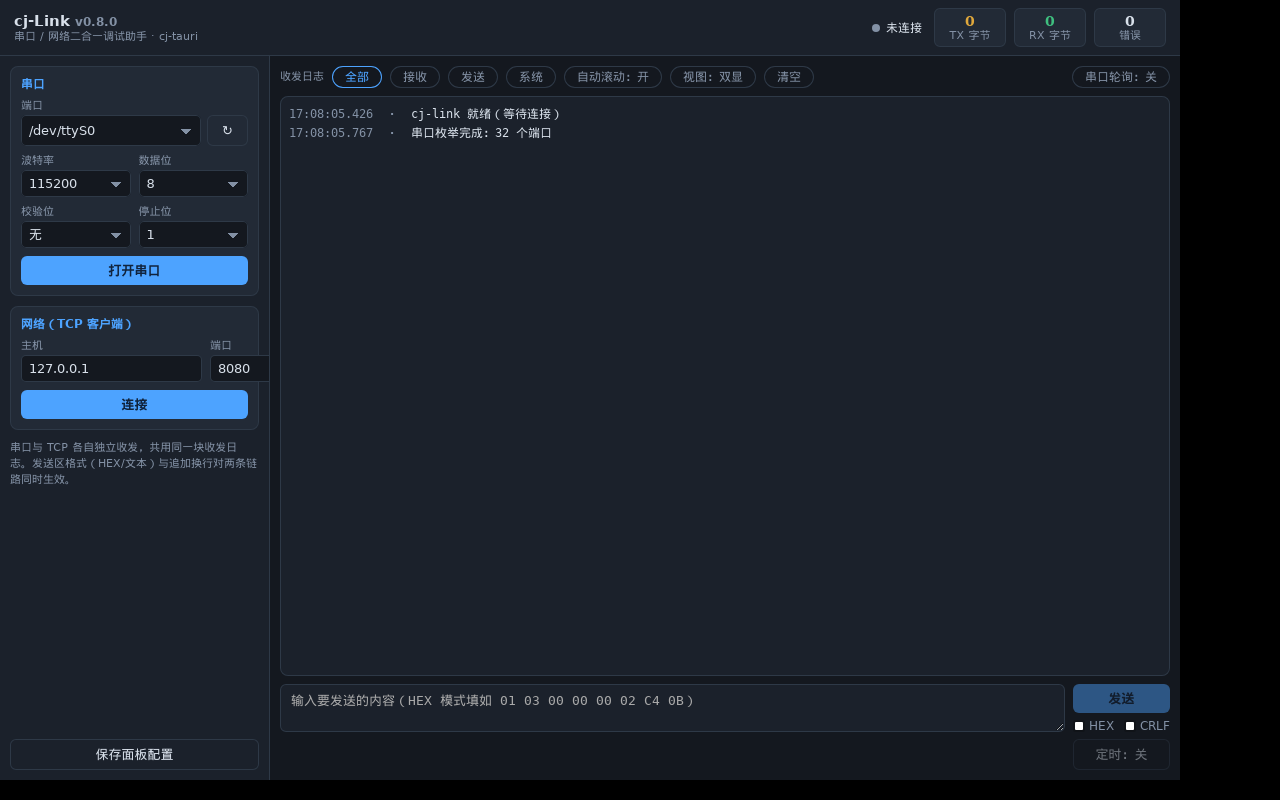
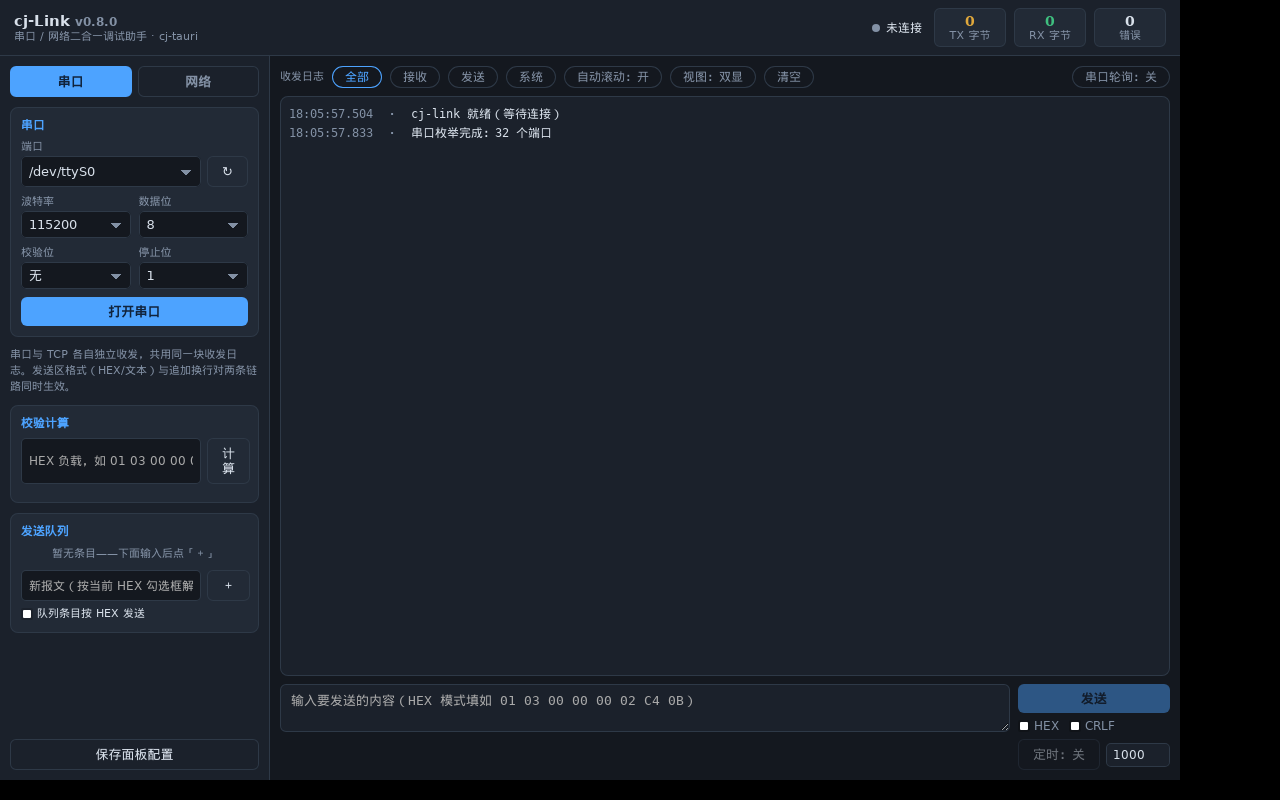
feat(cj-link): add send queue, CRC/checksum calculator and adjustable timer
- 发送队列：常用报文列表（HEX/TXT 各自标记），点条目即发，随 store 持久化
- 校验计算：link:crcCalc 命令算 CRC16-Modbus（低前/高前）/CRC16-CCITT/
  累加和/异或和/LRC，一键取「整帧+CRC」回填发送框（协议逻辑在仓颉侧）
- 定时发送周期可调（50ms–60s 输入框，原来固定 1s）
- 探针补 CRC 标准向量步骤（01 03 00 00 00 02 → c40b），run.sh 断言扩到
  33 条（实机全绿 exit=0）；capabilities 同步、构建零警告、截图更新

diff --git a/examples/cj-link/ui/index.html b/examples/cj-link/ui/index.html
@@ -74,6 +74,22 @@
   }
   button.ghost:hover { border-color: var(--accent); color: var(--accent); }
   button.danger { background: var(--err); color: #fff; }
+  .crc-out { display: flex; flex-direction: column; gap: 2px; margin-top: 8px; font-size: 11px; }
+  .crc-row { display: flex; justify-content: space-between; gap: 8px; cursor: pointer; padding: 2px 4px; border-radius: 4px; }
+  .crc-row:hover { background: var(--bg); }
+  .crc-row .k { color: var(--muted); }
+  .crc-row .v { font-family: Consolas, monospace; color: var(--accent); }
+  .queue-list { display: flex; flex-direction: column; gap: 4px; max-height: 180px; overflow-y: auto; }
+  .queue-item {
+    display: flex; align-items: center; gap: 6px; background: var(--bg);
+    border: 1px solid var(--line); border-radius: 5px; padding: 4px 8px; font-size: 12px;
+    font-family: Consolas, monospace; cursor: pointer;
+  }
+  .queue-item:hover { border-color: var(--accent); }
+  .queue-item .qhex { color: var(--warn); font-size: 10px; flex: 0 0 auto; }
+  .queue-item .qtext { flex: 1 1 auto; overflow: hidden; text-overflow: ellipsis; white-space: nowrap; }
+  .queue-item .qdel { color: var(--muted); cursor: pointer; flex: 0 0 auto; font-size: 13px; }
+  .queue-item .qdel:hover { color: var(--err); }
   .hint { font-size: 11px; color: var(--muted); line-height: 1.5; }
   .section {
     flex: 1 1 auto; display: flex; flex-direction: column; min-width: 0; padding: 10px; gap: 8px;
@@ -179,6 +195,23 @@
       <div class="hint">
         串口与 TCP 各自独立收发，共用同一块收发日志。发送区格式（HEX/文本）与追加换行对两条链路同时生效。
       </div>
+      <div class="modebox" id="crcBox">
+        <h3>校验计算</h3>
+        <div style="display:flex;gap:6px">
+          <input id="crcInput" placeholder="HEX 负载，如 01 03 00 00 00 02" style="flex:1;background:var(--bg);color:var(--fg);border:1px solid var(--line);border-radius:5px;padding:5px 7px;font-size:12px;outline:none">
+          <button class="ghost" id="bCrcCalc">计算</button>
+        </div>
+        <div id="crcOut" class="crc-out" hidden></div>
+      </div>
+      <div class="modebox" id="queueBox">
+        <h3>发送队列</h3>
+        <div id="queueList" class="queue-list"><div class="hint" style="text-align:center">暂无条目——下面输入后点「＋」</div></div>
+        <div style="display:flex;gap:6px;margin-top:8px">
+          <input id="queueInput" placeholder="新报文（按当前 HEX 勾选框解释）" style="flex:1;background:var(--bg);color:var(--fg);border:1px solid var(--line);border-radius:5px;padding:5px 7px;font-size:12px;outline:none">
+          <button class="ghost" id="bQueueAdd" title="加入队列">＋</button>
+        </div>
+        <label class="toggle" style="margin-top:6px;font-size:11px"><input type="checkbox" id="queueAutoHex">队列条目按 HEX 发送</label>
+      </div>
       <div style="margin-top:auto">
         <button class="ghost" id="bSaveCfg" style="width:100%">保存面板配置</button>
       </div>
@@ -204,7 +237,10 @@
             <label class="toggle"><input type="checkbox" id="hexMode">HEX</label>
             <label class="toggle"><input type="checkbox" id="appendCRLF">CRLF</label>
           </div>
-          <button class="ghost" id="bTimer" disabled>定时：关</button>
+          <div style="display:flex;gap:6px;align-items:center">
+            <button class="ghost" id="bTimer" disabled style="flex:1">定时：关</button>
+            <input id="timerMs" value="1000" title="定时周期（毫秒）" style="width:64px;background:var(--panel);color:var(--fg);border:1px solid var(--line);border-radius:5px;padding:4px 6px;font-size:12px;outline:none">
+          </div>
         </div>
       </div>
     </section>
@@ -475,6 +511,96 @@
     }).catch(function (e) { sysMsg('断开失败：' + errMsg(e)); });
   }
 
+  /* ============ CRC / 校验计算 ============ */
+  var CRC_LABELS = [
+    ['crc16Modbus', 'CRC16-Modbus（低前）'],
+    ['crc16ModbusBig', 'CRC16-Modbus（高前）'],
+    ['crc16Ccitt', 'CRC16-CCITT'],
+    ['sum8', '累加和'],
+    ['xor8', '异或和'],
+    ['lrc', 'LRC'],
+    ['frameWithCrc', '整帧+CRC（可发送）']
+  ];
+  function crcCalc() {
+    var v = $('crcInput').value.trim();
+    if (!v) { return; }
+    t().invoke('link:crcCalc', { data: v, encoding: 'hex', append: true }).then(function (r) {
+      var out = $('crcOut');
+      out.innerHTML = '';
+      CRC_LABELS.forEach(function (kv) {
+        var val = r[kv[0]];
+        if (val === undefined) { return; }
+        var row = document.createElement('div');
+        row.className = 'crc-row';
+        row.innerHTML = '<span class="k">' + kv[1] + '</span><span class="v">' + esc(val) + '</span>';
+        // 点整帧行回填发送框；点其它行复制值进发送框
+        row.addEventListener('click', function () {
+          $('sendInput').value = val.toUpperCase().replace(/(..)(?=.)/g, '$1 ');
+          sysMsg('已填入发送框：' + kv[1] + ' = ' + val);
+        });
+        out.appendChild(row);
+      });
+      out.hidden = false;
+    }).catch(function (e) { sysMsg('校验计算失败：' + errMsg(e)); });
+  }
+
+  /* ============ 发送队列 ============ */
+  var queue = [];   // { text, hex }——hex 为该条目入队时的解释方式（true=HEX）
+  function queueRender() {
+    var box = $('queueList');
+    box.innerHTML = '';
+    if (!queue.length) {
+      box.innerHTML = '<div class="hint" style="text-align:center">暂无条目——下面输入后点「＋」</div>';
+      return;
+    }
+    queue.forEach(function (q, idx) {
+      var el = document.createElement('div');
+      el.className = 'queue-item';
+      el.innerHTML = '<span class="qhex">' + (q.hex ? 'HEX' : 'TXT') + '</span>' +
+        '<span class="qtext">' + esc(q.text) + '</span>' +
+        '<span class="qdel" data-i="' + idx + '" title="删除">✕</span>';
+      el.addEventListener('click', function (ev) {
+        if (ev.target.classList.contains('qdel')) {
+          queue.splice(Number(ev.target.getAttribute('data-i')), 1);
+          queueRender(); queueSave();
+          return;
+        }
+        queueSend(q);
+      });
+      box.appendChild(el);
+    });
+  }
+  function queueSend(q) {
+    if (!(S.serOpen || S.tcpOpen)) { sysMsg('先打开串口或连接网络，再从队列发送'); return; }
+    var isHex = q.hex;
+    if (isHex) {
+      var cleaned = q.text.replace(/\s+/g, '');
+      if (!/^[0-9a-fA-F]+$/.test(cleaned) || cleaned.length % 2 !== 0) {
+        sysMsg('队列条目不是合法 HEX：' + q.text); return;
+      }
+    }
+    var p = { data: isHex ? cleaned : q.text, encoding: isHex ? 'hex' : 'utf8' };
+    if (S.serOpen) {
+      t().invoke('serial:write', { handle: S.serHandle, data: p.data, encoding: p.encoding })
+        .then(function (r) { addLine({ dir: 'tx', text: p.data, hex: hexOf(p), nBytes: r.written || p.data.length }); })
+        .catch(function (e) { S.errCount++; sysMsg('队列发送失败：' + errMsg(e)); });
+    } else {
+      t().invoke('link:netSend', { data: p.data, encoding: p.encoding })
+        .then(function (r) { addLine({ dir: 'tx', text: p.data, hex: hexOf(p), nBytes: r.bytes || p.data.length }); })
+        .catch(function (e) { S.errCount++; sysMsg('队列发送失败：' + errMsg(e)); });
+    }
+  }
+  function queueSave() {
+    if (!t()) { return; }
+    t().invoke('store:set', { key: 'queue', value: queue }).catch(function () {});
+  }
+  function queueLoad() {
+    if (!t()) { return; }
+    t().invoke('store:get', { key: 'queue' }).then(function (r) {
+      if (r.value && r.value.length) { queue = r.value; queueRender(); }
+    }).catch(function () {});
+  }
+
   /* ============ 配置持久化 ============ */
   var CFG_KEY = 'panel';
   function cfgObj() {
@@ -576,6 +702,13 @@
         .catch(function (e) { return null; });
     }
     serialPart.then(function () {
+      /* CRC / 校验小工具自检：Modbus 标准测试向量 01 03 00 00 00 02 → C4 0B（低前） */
+      return step('crcCalc', t().invoke('link:crcCalc', { data: '010300000002', encoding: 'hex', append: true }))
+        .then(function (r) {
+          if (r.crc16Modbus !== 'c40b') { throw new Error('CRC16-Modbus 期望 c40b，拿到 ' + r.crc16Modbus); }
+          report('[selfcheck] crc vector=010300000002 crc16Modbus=' + r.crc16Modbus + ' frame=' + r.frameWithCrc);
+        });
+    }).then(function () {
       return step('tcpConnect', t().invoke('link:netConnect', { mode: 'tcp-client', host: cfg.tcpHost || '127.0.0.1', port: parseInt(cfg.tcpPort || '15021', 10) }))
         .then(function () {
           S.tcpOpen = true;
@@ -667,18 +800,37 @@
     });
     $('bSend').addEventListener('click', doSend);
     $('bSaveCfg').addEventListener('click', saveCfg);
+    /* 发送队列：入队 / 载入 */
+    $('bQueueAdd').addEventListener('click', function () {
+      var v = $('queueInput').value;
+      if (!v) { return; }
+      queue.push({ text: v, hex: $('queueAutoHex').checked });
+      $('queueInput').value = '';
+      queueRender(); queueSave();
+    });
+    $('queueInput').addEventListener('keydown', function (ev) {
+      if (ev.key === 'Enter') { $('bQueueAdd').click(); }
+    });
+    queueLoad();
     $('bTimer').addEventListener('click', function () {
       S.timerOn = !S.timerOn;
       this.textContent = '定时：' + (S.timerOn ? '开' : '关');
-      this.classList.toggle('sel', false);
       if (S.timerOn) {
+        var period = function () {
+          var ms = parseInt($('timerMs').value, 10);
+          return (ms >= 50 && ms <= 60000) ? ms : 1000;
+        };
         var tick = function () {
           if (!S.timerOn) { return; }
           doSend();
-          setTimeout(tick, 1000);
+          setTimeout(tick, period());
         };
         tick();
       }
+    });
+    $('bCrcCalc').addEventListener('click', crcCalc);
+    $('crcInput').addEventListener('keydown', function (ev) {
+      if (ev.key === 'Enter') { crcCalc(); }
     });
     serRefresh();
     loadCfg();

diff --git a/examples/cj-link/README.md b/examples/cj-link/README.md
@@ -16,7 +16,10 @@ cj-tauri 示例：串口与 TCP 客户端共用一块收发日志的调试小工
   收均走宿主事件推送 `link:tcpData`（报文带 `mode`/`channel`/`from` 字段区分来源）。
 - **收发日志**：HEX/ASCII 双显（双显/HEX/文本三档视图）、方向分色（↑TX 黄 / ↓RX 绿 / ·系统灰）、
   毫秒时间戳、按方向过滤、TX/RX 字节与错误计数。
-- **发送区**：HEX/文本双模式、追加 CRLF、定时发送（1s 周期）。
+- **发送区**：HEX/文本双模式、追加 CRLF、定时发送（周期 50ms–60s 可调）。
+- **发送队列**：常用报文存成列表（HEX/TXT 各自标记），点一条发一条，随 store 持久化。
+- **校验计算**：`link:crcCalc` 算 CRC16-Modbus（低前/高前）、CRC16-CCITT、累加和、异或和、LRC，
+  一键取「整帧+CRC」回填发送框（协议逻辑在仓颉侧，前端只展示）。
 - **面板配置持久化**：`store:get/set` 落 `store.json`，重启自动恢复。
 
 ## 命令表
@@ -27,6 +30,7 @@ cj-tauri 示例：串口与 TCP 客户端共用一块收发日志的调试小工
 | `store:get/set` | store 插件 | 面板配置持久化 |
 | `link:serialList` | 应用级 | 串口枚举统一出口 |
 | `link:netConnect/netSend/netClose/netStatus` | 应用级 | 网络会话（TCP 客户端 / TCP 服务器 / UDP，`mode` 参数区分） |
+| `link:crcCalc` | 应用级 | 校验计算（CRC16-Modbus/CCITT、累加和、异或和、LRC、整帧拼装） |
 | `link:ping` / `report` / `quit` | 应用级 | 探针自检辅助 |
 
 能力清单见 `capabilities/default.json`——没声明的命令一律 `command not allowed`。
@@ -44,9 +48,10 @@ cd examples/cj-link && cjpm run
 ## 探针自检（自动化取证）
 
 `CJ_LINK_PROBE=1` 时宿主经 document-start 预执行脚本注入配置，页面自动跑
-「串口 open→write→read→close + TCP connect→send→recv→close + UDP connect→send→recv→close」共 10 步，
+「串口 open→write→read→close + CRC 标准向量（01 03 00 00 00 02 → c40b）+ TCP connect→send→recv→close
++ UDP connect→send→recv→close」共 11 步，
 逐项经 `report` 回投 stderr；对端由 `cj-link-peer.py` 扮演（串口 pty echo + TCP echo + UDP echo），
-收发证据落在应用进程之外（`rx` 文件 + 对端日志）。`run.sh` 的 30 条断言全绿即三条链路都是活的。
+收发证据落在应用进程之外（`rx` 文件 + 对端日志）。`run.sh` 的 33 条断言全绿即三条链路都是活的。
 
 ```bash
 CJ_LINK_PROBE=1 CJ_LINK_PROBE_SERIAL_PATH=/dev/pts/N \

diff --git a/README.md b/README.md
@@ -98,7 +98,7 @@ cli\cj-tauri.bat create myapp && cd myapp
 | [http-client](examples/http-client) | **HTTP API 客户端**（Postman 那一类）：左拼请求 / 中看响应（原文 · JSON 树 · 响应头）/ 右管集合与历史，**网络请求全由仓颉侧直发**（页面零 `fetch`，TLS 走系统证书库不关校验）；白名单与响应体上限在仓颉侧兜底，越界读由路径 scope 拒；示例自带 mock 对端，Linux 实机 E2E 55 条断言两侧对账（含截断三侧对账） |
 | [sqlite-browser](examples/sqlite-browser) | **SQLite 数据库浏览器**：库对象 / 数据分页网格（排序、类型上色、超长单元格截断标记）/ SQL 调试台（只读与可写两个按钮）；**仓颉 FFI 直连系统 `libsqlite3`**（仓库首例，不经 C 桥），命令放行与路径 scope 两层、只读走内核级连接、`ATTACH` 由 authorizer 按语句拒；示例自带夹具对端，Linux 实机 E2E 49 条断言（含**进程外**只读复查页面写入的那一行） |
 | [serial-assistant](examples/serial-assistant) | **串口调试助手**：参数面板、TX/RX 分色收发日志、定时发送、探针自检 |
-| [cj-link](examples/cj-link) | **串口/网络二合一调试助手**：串口（serial 插件）+ 网络三模式（TCP 客户端 / TCP 服务器多客户端广播 / UDP，`std.net`）共用收发日志，HEX/ASCII 双显、定时发送、面板配置持久化（store 插件）；对端由 pty echo + TCP/UDP echo 扮演，Linux 实机 run.sh 30 条断言两侧对账 |
+| [cj-link](examples/cj-link) | **串口/网络二合一调试助手**：串口（serial 插件）+ 网络三模式（TCP 客户端 / TCP 服务器多客户端广播 / UDP，`std.net`）共用收发日志，HEX/ASCII 双显、发送队列、校验计算（CRC16-Modbus/CCITT 等，`link:crcCalc`）、定时发送（周期可调）、面板配置持久化（store 插件）；对端由 pty echo + TCP/UDP echo 扮演，Linux 实机 run.sh 33 条断言两侧对账 |
 | [serial-waveform](examples/serial-waveform) | **串口实时波形示波器**：`serial` 插件 + canvas 双缓冲自绘，行协议 `<序号>,<值>`；400 Hz 样本流下页面自算速率/上穿/丢帧，实机取证见该目录 README |
 | [movie](examples/movie) | **观影应用**：榜单/搜索/详情/播放，数据全由仓颉侧 HTTP 取回，前端零 fetch |
 | [music](examples/music) | **音乐播放器**：榜单/歌单/收藏/分享 + 同步歌词 + 4 套主题色，封面由宿主带 Referer 取回并缩略 |

diff --git a/CHANGELOG.md b/CHANGELOG.md
@@ -18,8 +18,12 @@
   （报文带 mode/channel/from 区分来源），串口与网络共用一块收发日志（HEX/ASCII 双显、方向分色、
   毫秒时间戳、按方向过滤、TX/RX 计数）；面板配置经 `store` 插件持久化。对端由 `cj-link-peer.py`
   一条进程扮演（串口 pty echo + TCP echo + UDP echo），`run.sh` 自动套 Xvfb 跑探针自检
-  （串口 + TCP + UDP 各 open/connect→send→recv→close 共 10 步）与 30 条断言，
+  （串口 + CRC 标准向量 + TCP + UDP 共 11 步）与 33 条断言，
   两端证据都在应用进程之外。
+- **cj-Link 发送增强三件**：**发送队列**（常用报文列表，HEX/TXT 各自标记，点条目即发，
+  随 store 持久化）、**校验计算**（`link:crcCalc` 命令算 CRC16-Modbus（低前/高前）/CRC16-CCITT/
+  累加和/异或和/LRC，可一键取「整帧+CRC」回填发送框，协议逻辑在仓颉侧）、
+  **定时发送周期可调**（50ms–60s 输入框，原来固定 1s）。
 
 - **源码仓 `cjpm.toml` 的 stdx 路径改为环境变量引用（机器无关，issue #3）**：根与 `examples/*`
   共 24 个 `cjpm.toml` 的 `[target.*.bin-dependencies] path-option` 不再写死本机绝对路径，
